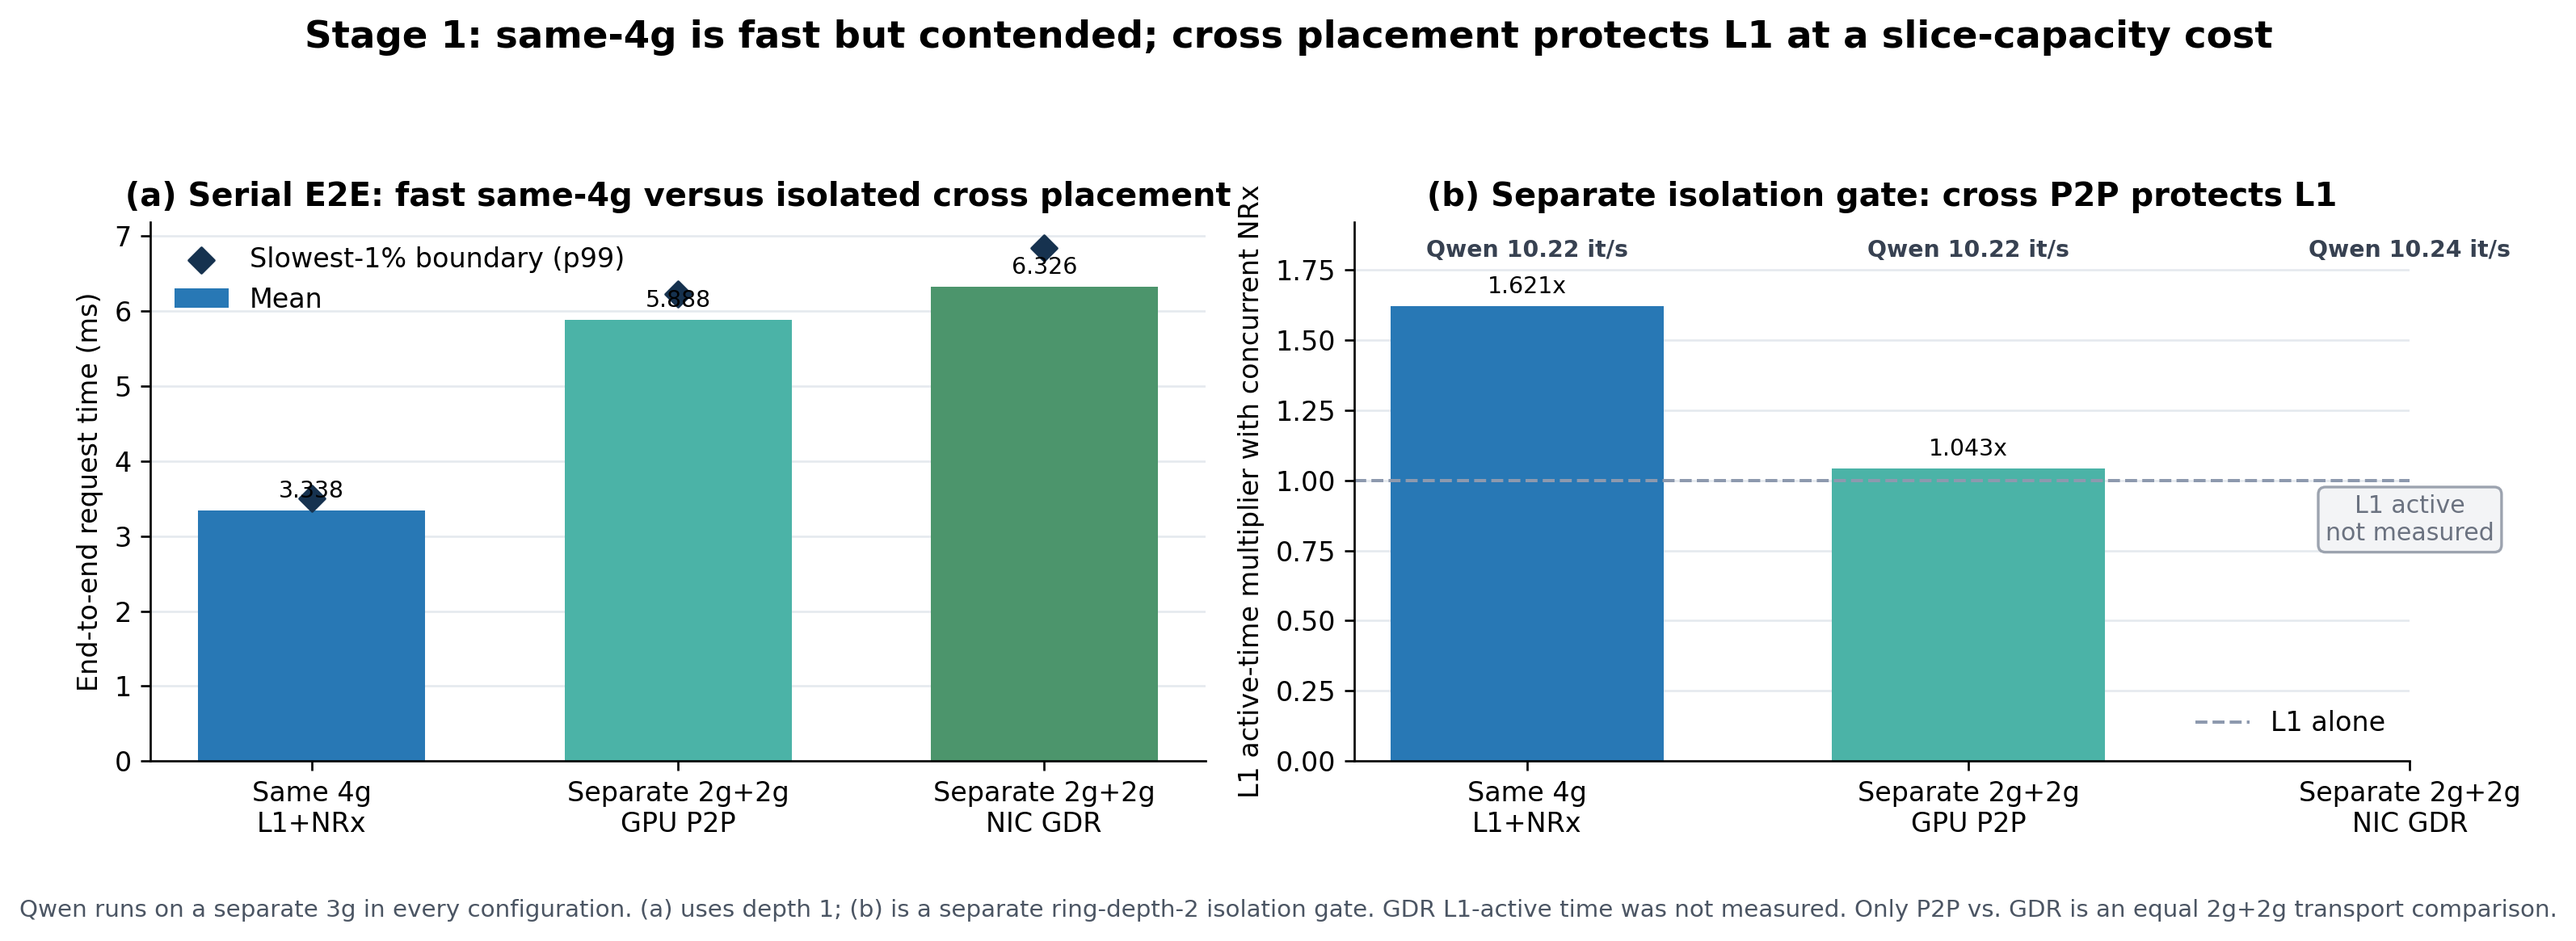
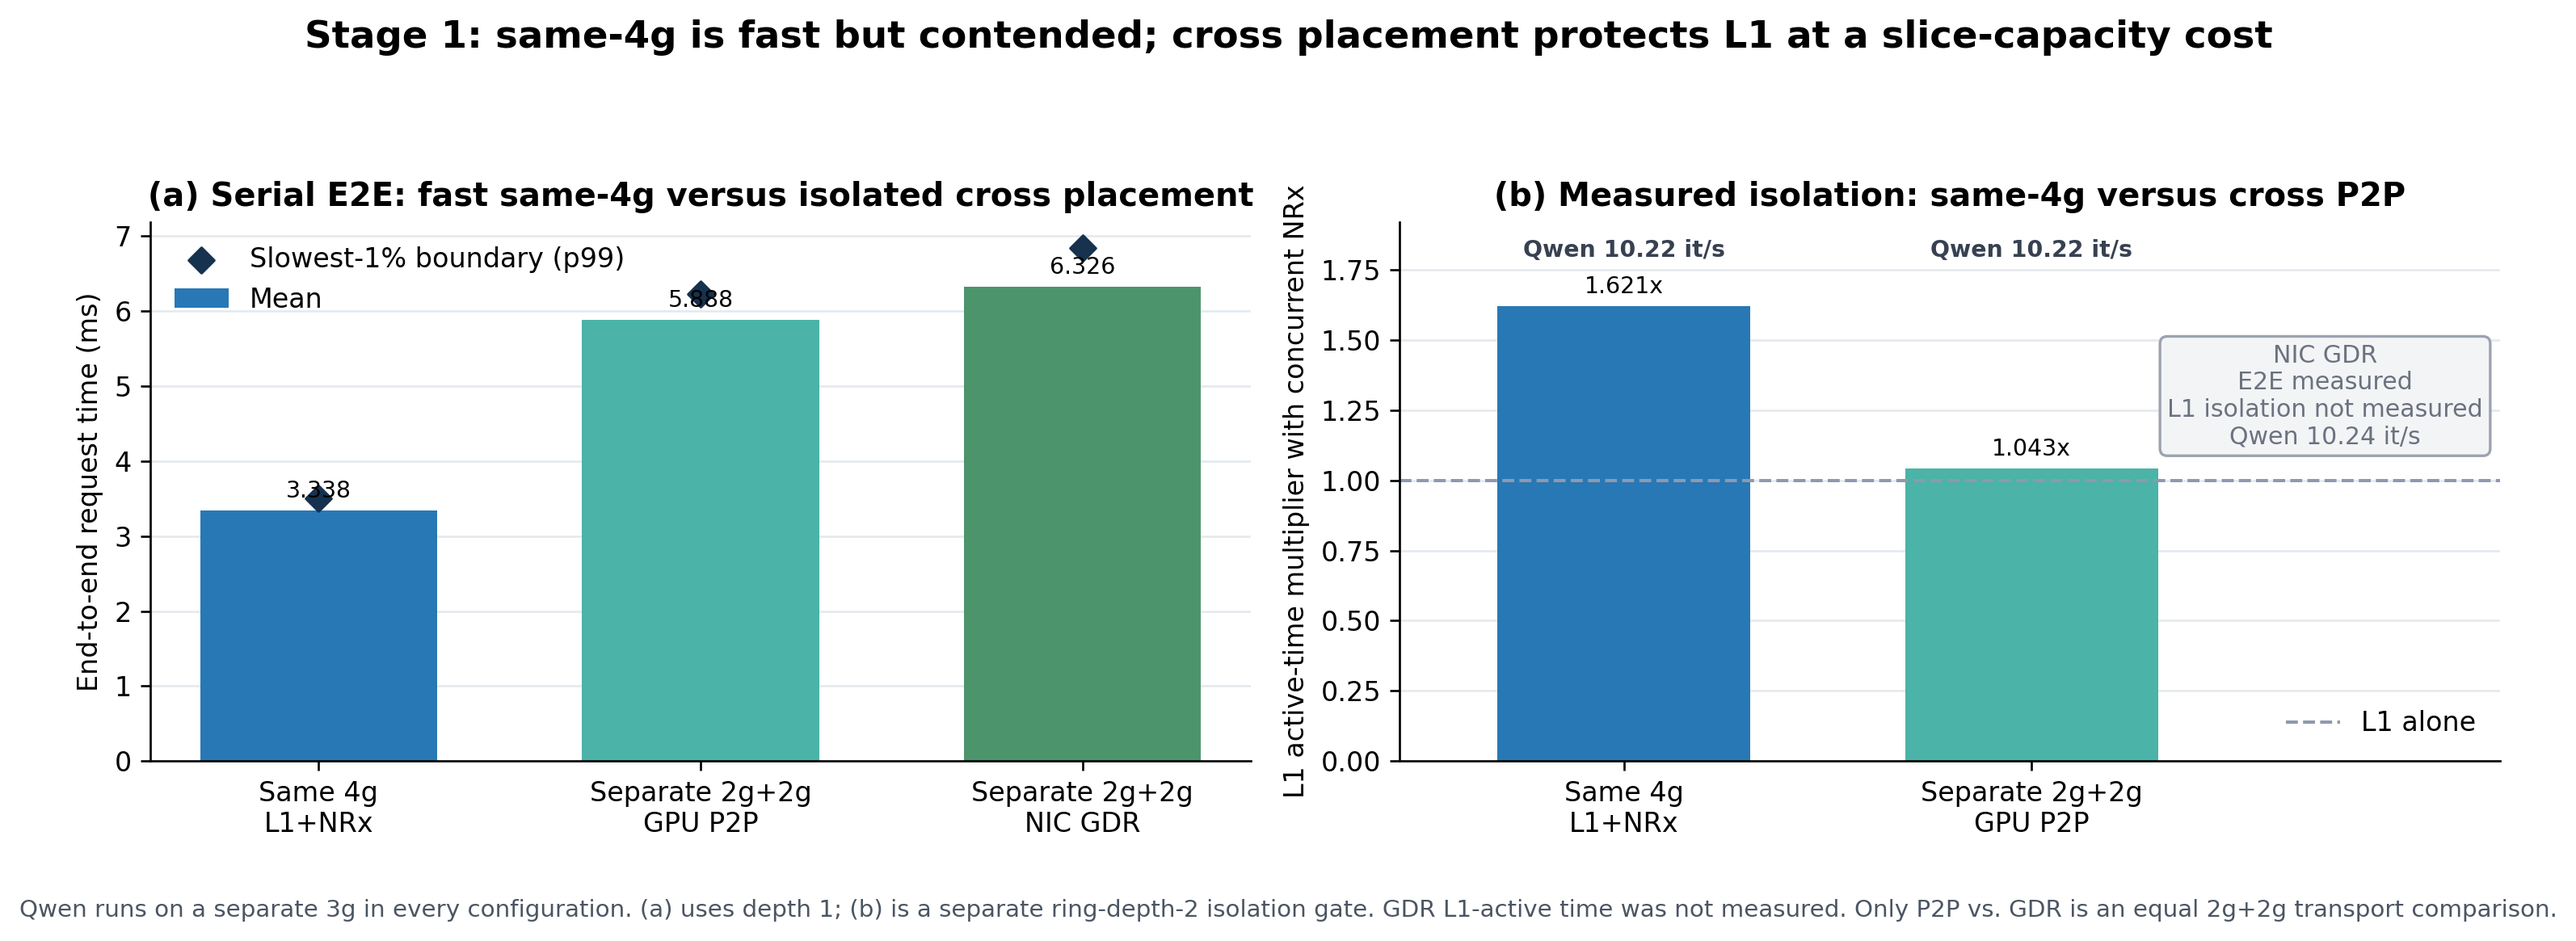
Refine walkthrough + stage1 figure

diff --git a/tools/analysis/generate_research_walkthrough_figures.py b/tools/analysis/generate_research_walkthrough_figures.py
@@ -1726,7 +1726,6 @@ def figure_03e_stage1_equal_depth():
     slowdown = [
         float(placement["MIG same"]["l1_slowdown"]),
         float(placement["Cross P2P"]["l1_slowdown"]),
-        np.nan,
     ]
 
     x = np.arange(len(desired))
@@ -1748,24 +1747,26 @@ def figure_03e_stage1_equal_depth():
     annotate_bars(axes[0], bars, "{:.3f}")
     style_axes(axes[0])
 
-    bars = axes[1].bar(x, slowdown, color=colors, width=0.62)
-    axes[1].set_xticks(x, labels)
+    isolation_x = np.arange(2)
+    bars = axes[1].bar(isolation_x, slowdown, color=colors[:2], width=0.62)
+    axes[1].set_xticks(isolation_x, labels[:2])
     axes[1].axhline(1.0, color=COLORS["gray"], linestyle="--", linewidth=1.2, label="L1 단독 실행")
     axes[1].set_ylim(0, 1.92)
+    axes[1].set_xlim(-0.55, 2.15)
     axes[1].set_ylabel("NRx 동시 실행 시 L1 active-time 증가 배율")
-    axes[1].set_title("(b) 별도 isolation gate: cross P2P가 L1을 보호")
-    annotate_bars(axes[1], bars[:2], "{:.3f}x")
+    axes[1].set_title("(b) 측정된 isolation: same-4g 대 cross P2P")
+    annotate_bars(axes[1], bars, "{:.3f}x")
     axes[1].text(
-        x[2],
-        0.86,
-        "L1 active\n미측정",
+        1.72,
+        1.30,
+        "NIC GDR\nE2E 측정 완료\nL1 isolation 미측정\nQwen 10.24 it/s",
         ha="center",
         va="center",
         fontsize=9,
         color="#6b7280",
         bbox={"boxstyle": "round,pad=0.30", "facecolor": "#f3f4f6", "edgecolor": "#9ca3af"},
     )
-    for index, value in enumerate(qwen):
+    for index, value in enumerate(qwen[:2]):
         axes[1].text(
             index,
             1.82,

diff --git a/tools/analysis/generate_research_walkthrough_figures_en.py b/tools/analysis/generate_research_walkthrough_figures_en.py
@@ -361,9 +361,10 @@ EN = {
         "(a) Serial E2E: fast same-4g versus isolated cross placement",
     "L1 단독 실행": "L1 alone",
     "NRx 동시 실행 시 L1 active-time 증가 배율": "L1 active-time multiplier with concurrent NRx",
-    "(b) 별도 isolation gate: cross P2P가 L1을 보호":
-        "(b) Separate isolation gate: cross P2P protects L1",
-    "L1 active\n미측정": "L1 active\nnot measured",
+    "(b) 측정된 isolation: same-4g 대 cross P2P":
+        "(b) Measured isolation: same-4g versus cross P2P",
+    "NIC GDR\nE2E 측정 완료\nL1 isolation 미측정\nQwen 10.24 it/s":
+        "NIC GDR\nE2E measured\nL1 isolation not measured\nQwen 10.24 it/s",
     "Stage 1: same-4g는 빠르지만 L1 경합, cross 배치는 L1 보호 대신 작은 slice 비용":
         "Stage 1: same-4g is fast but contended; cross placement protects L1 at a slice-capacity cost",
     "모든 구성에서 Qwen은 별도 3g에 상주. (a)는 depth=1, (b)는 별도 ring-depth=2 isolation gate; GDR의 L1-active 값은 미측정. P2P↔GDR만 동일 2g+2g transport 비교":

diff --git a/docs/current/RESEARCH_WALKTHROUGH_KO.md b/docs/current/RESEARCH_WALKTHROUGH_KO.md
@@ -863,11 +863,15 @@ Stage 1도 하나의 숫자가 아니라 세 개의 내부 gate로 구성된다.
 
 ![Stage 1의 동일 queue-depth P2P/GDR 비교](figures/03e_stage1_equal_depth.png)
 
-| 배치와 transport | E2E mean | E2E p99 | 직렬 완료율 | Qwen | 직접 transport |
-|---|---:|---:|---:|---:|---:|
-| Same 4g: L1+NRx | **3.338 ms** | **3.501 ms** | **300.250 slot/s** | 10.22 it/s | 없음 |
-| GPU P2P | **5.888 ms** | 6.224 ms | 169.804 slot/s | 10.22 it/s | 76.547 µs |
-| NIC GDR loopback | 6.326 ms | 6.846 ms | 158.095 slot/s | 10.24 it/s | E2E 차이에 포함 |
+| 배치와 transport | 한 요청 직렬 E2E mean ↓ | E2E p99 ↓ | NRx 동시 실행 시 L1 active-time 배율 ↓ | Qwen | 이 행이 말하는 것 |
+|---|---:|---:|---:|---:|---|
+| Same 4g: L1+NRx | **3.338 ms** | **3.501 ms** | **1.621× (+62.1%)** | 10.22 it/s | 한 요청은 가장 빠르지만, NRx가 겹치면 L1 경합이 큼 |
+| Cross 2g+2g: GPU P2P | 5.888 ms | 6.224 ms | **1.043× (+4.3%)** | 10.22 it/s | 작은 slice 때문에 E2E는 느리지만 L1은 거의 보호됨 |
+| Cross 2g+2g: NIC GDR | 6.326 ms | 6.846 ms | **미측정** | 10.24 it/s | cross-MIG GPU-memory 경로는 확인; L1 isolation gate는 남음 |
+
+`↓`는 작을수록 좋다는 뜻이다. 이 표의 왼쪽은 **낮은 부하의 단일 요청 속도**, 오른쪽
+L1 배율은 **NRx 요청이 겹칠 때의 보호 성능**이다. 따라서 Same 4g의 핵심 문제는 첫 번째
+숫자가 아니라 `1.621×`이다.
 
 이 표는 두 가지로 나눠 읽어야 한다.
 

diff --git a/docs/current/RESEARCH_WALKTHROUGH_EN.md b/docs/current/RESEARCH_WALKTHROUGH_EN.md
@@ -845,11 +845,15 @@ Stage 1 itself consists of three internal gates rather than one number.
 
 ![Stage 1 P2P/GDR comparison at the same queue depth](figures_en/03e_stage1_equal_depth.png)
 
-| Placement and transport | E2E mean | E2E p99 | Serial completion rate | Qwen | Direct transport |
-|---|---:|---:|---:|---:|---:|
-| Same 4g: L1+NRx | **3.338 ms** | **3.501 ms** | **300.250 slot/s** | 10.22 it/s | None |
-| GPU P2P | **5.888 ms** | 6.224 ms | 169.804 slot/s | 10.22 it/s | 76.547 µs |
-| NIC GDR loopback | 6.326 ms | 6.846 ms | 158.095 slot/s | 10.24 it/s | Included in E2E difference |
+| Placement and transport | One-request serial E2E mean ↓ | E2E p99 ↓ | L1 active-time multiplier with concurrent NRx ↓ | Qwen | What this row means |
+|---|---:|---:|---:|---:|---|
+| Same 4g: L1+NRx | **3.338 ms** | **3.501 ms** | **1.621× (+62.1%)** | 10.22 it/s | Fastest single request, but substantial L1 contention when NRx overlaps |
+| Cross 2g+2g: GPU P2P | 5.888 ms | 6.224 ms | **1.043× (+4.3%)** | 10.22 it/s | Slower E2E on smaller slices, but L1 is nearly protected |
+| Cross 2g+2g: NIC GDR | 6.326 ms | 6.846 ms | **Not measured** | 10.24 it/s | Cross-MIG GPU-memory path verified; L1 isolation gate remains |
+
+`↓` means lower is better. The left side reports **low-load single-request speed**; the L1 multiplier
+reports **protection when NRx requests overlap**. The important weakness of Same-4g is therefore not
+its first number but its `1.621×` L1 active time.
 
 This table must be read as two comparisons.
 
